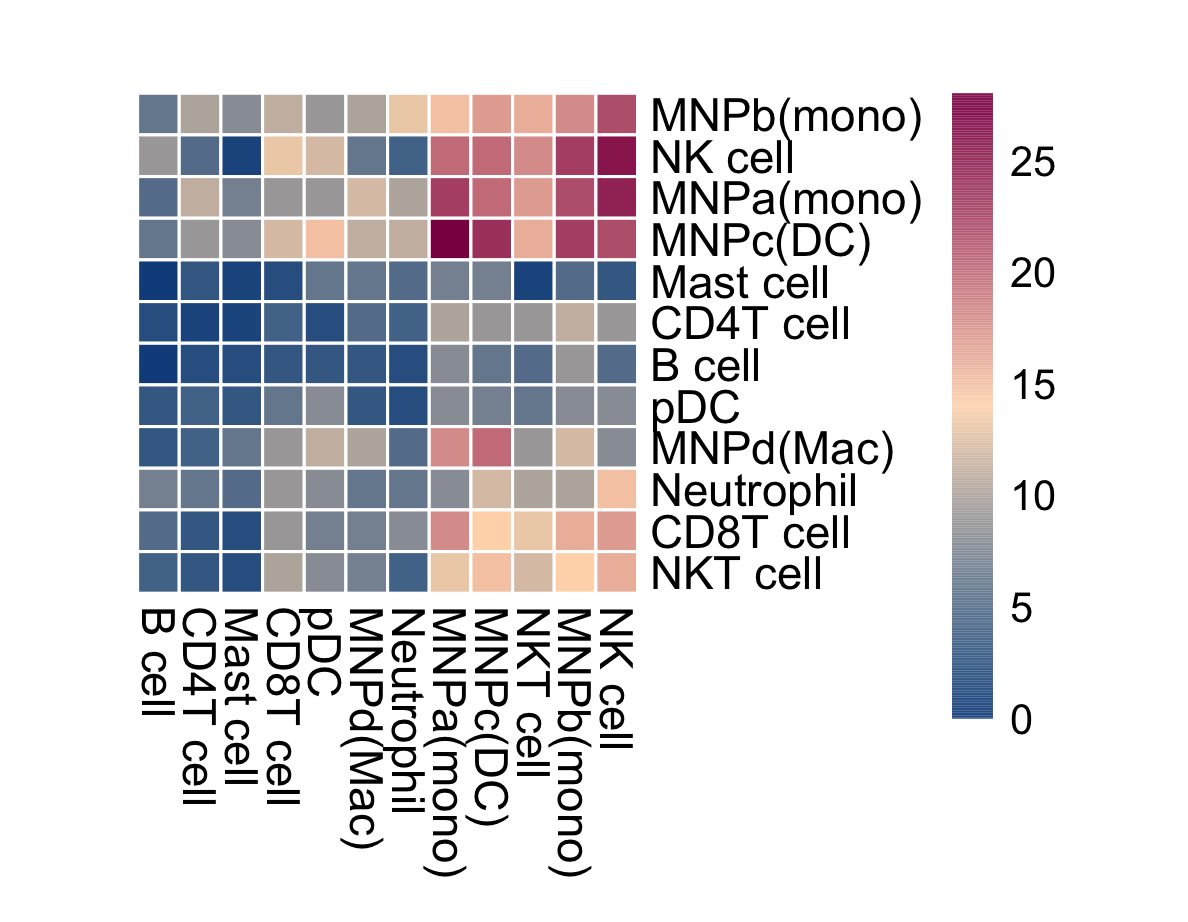
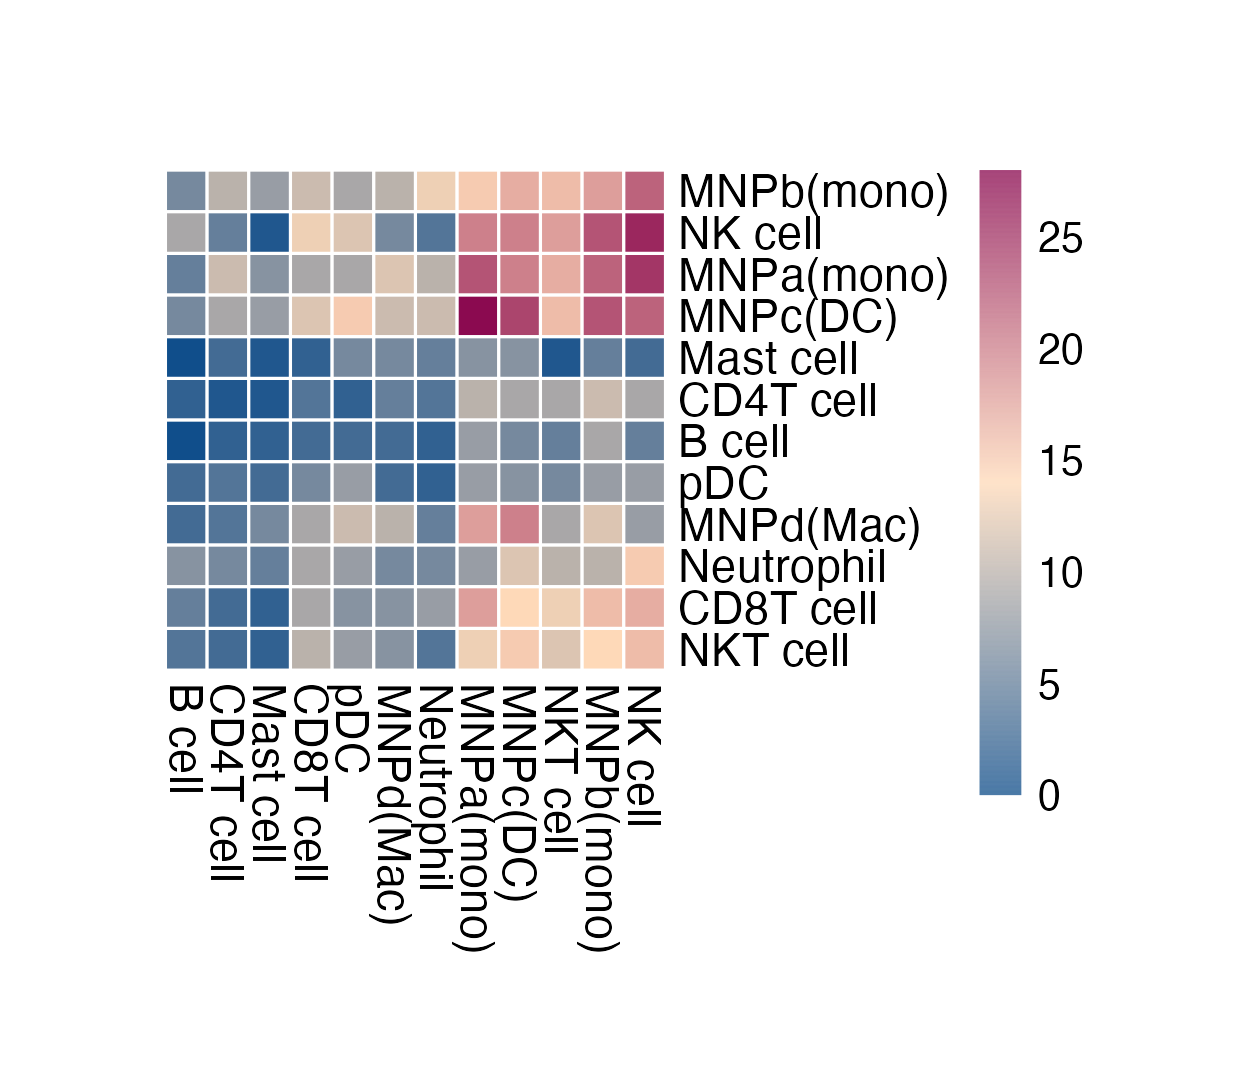
add symmetrical to heatmap (#70)
* add symmetrical to heatmap

* Update plot_cpdb_heatmap.R

set symmetrical = TRUE as default

* change default

Changed region(s): [[0.0934, 0.0911, 0.9032, 0.9718]]

diff --git a/README.md b/README.md
@@ -325,14 +325,35 @@ plot_cpdb4(
 
 ## plot_cpdb_heatmap
 
-New! Ported the original heatmap plot to this pacakge as per the main cellphonedb repo. Uses `pheatmap` internally. Colours indicate the number of significant interactions.
+New! Ported the original heatmap plot to this pacakge as per the main cellphonedb repo. Uses `pheatmap` internally. Colours indicate the number of significant interactions. The values for the `symmetrical=False` mode follow the direction of the L-R direction where it's always moleculeA:celltypeA -> moleculeB:celltypeB. For example,
+ 
+ - x axis -> y axis:
+    
+    A: MNPc(DC)
+    
+    B: NK cell 
+    
+    A -> B is 22 interactions
+ - y axis -> x axis:
+   
+    
+    A: NK cell
+    
+    B: MNPc(DC)
+    
+    A -> B is 20 interactions
 
 ```R
 plot_cpdb_heatmap(kidneyimmune, 'celltype', pvals2, cellheight = 10, cellwidth = 10)
 ```
 
-![plot_cpdb_heatmap](exampleImages/plot_cpdb_heatmap.png)
+![plot_cpdb_heatmap](exampleImages/plot_cpdb_heatmap2.png)
 
+```R
+plot_cpdb_heatmap(kidneyimmune, 'celltype', pvals2, cellheight = 10, cellwidth = 10, symmetrical = FALSE)
+```
+
+![plot_cpdb_heatmap](exampleImages/plot_cpdb_heatmap.png)
 
 ## Other useful functions
 
